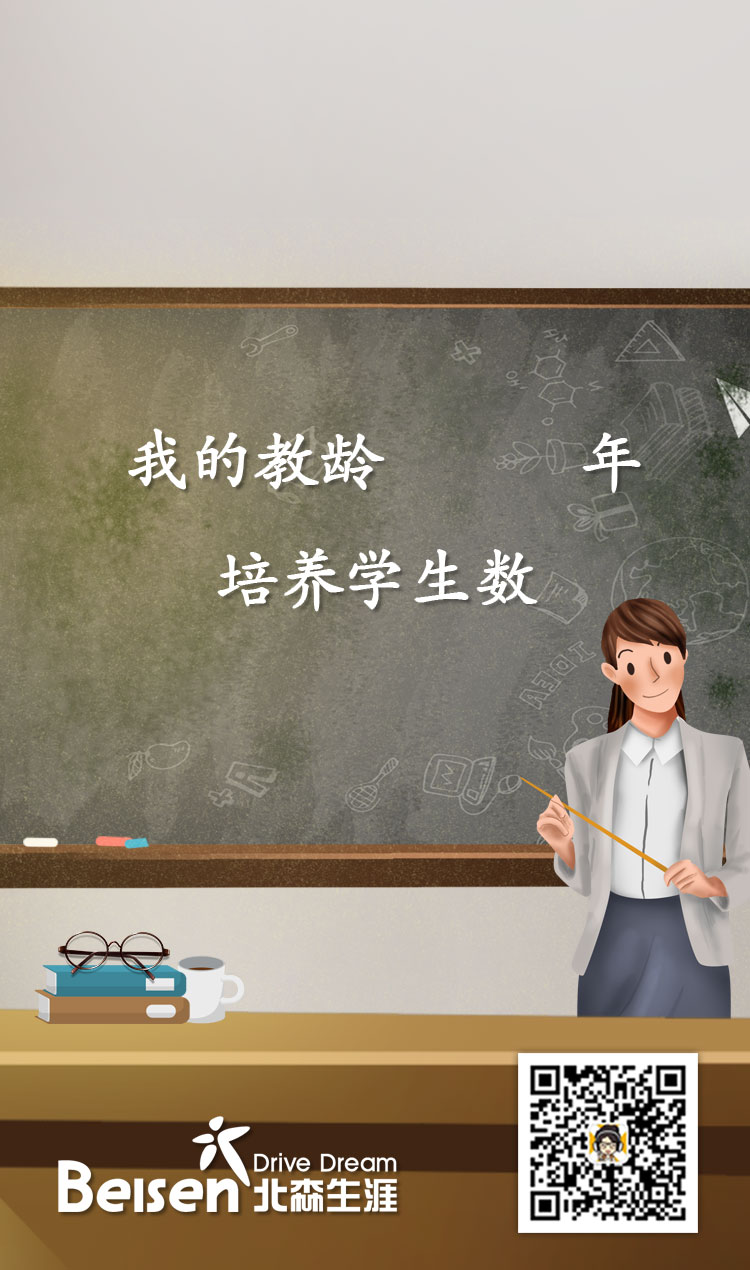
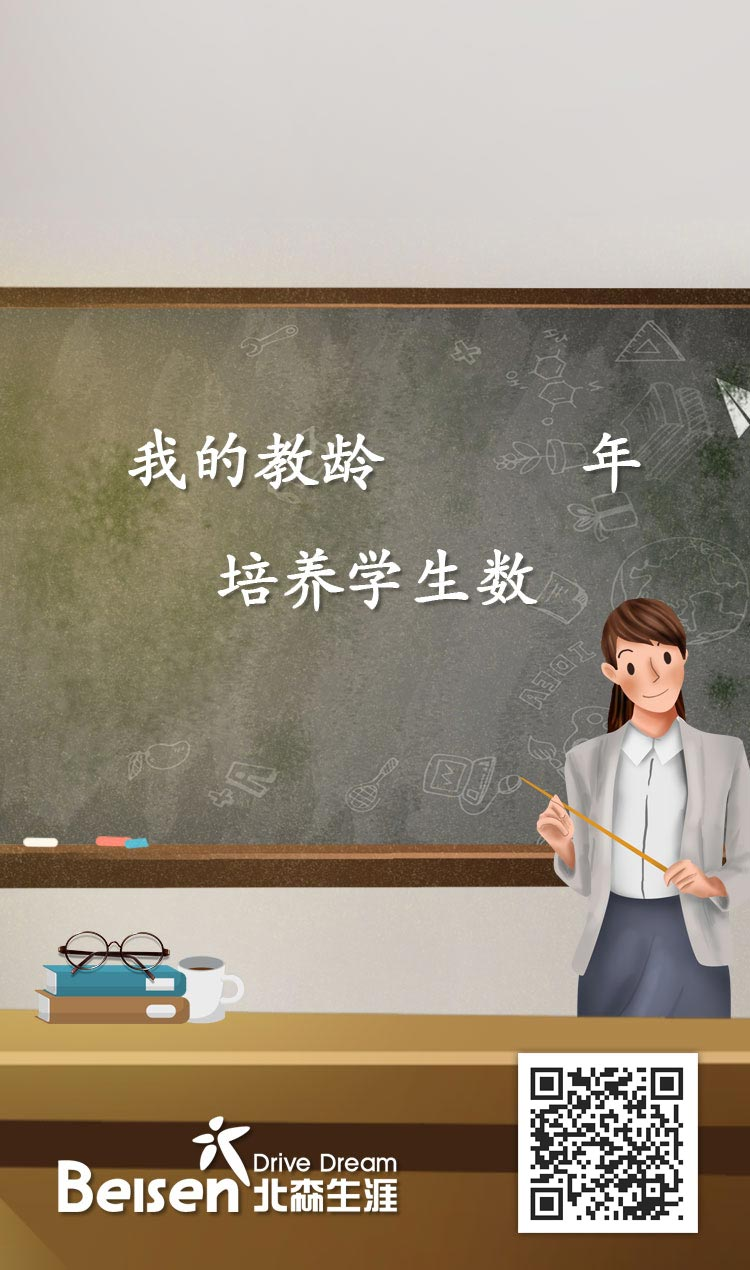
加统计接口，换图片

Changed region(s): [[0.7053, 0.8291, 0.92, 0.9827]]

diff --git a/src/utils.js b/src/utils.js
@@ -9,7 +9,7 @@ export default {
     },
     countNum(){
         let xhr=new XMLHttpRequest();
-        xhr.open('post','count',false);
+        xhr.open('post','/Statistics/Add',false);
         xhr.send()
     }
 
